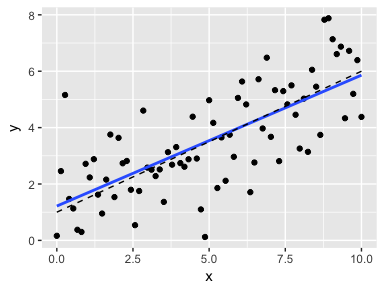
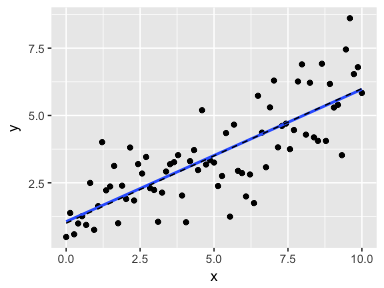
lab 11 typos

diff --git a/teaching/stats306f17/lab11/index.md b/teaching/stats306f17/lab11/index.md
@@ -18,9 +18,9 @@ library(stringr)
 
 ### Grouped matches
 
-As you saw in [Lab 10](http://www.brookluers.com/teaching/stats306f17/lab10/#regular-expression-backreferences){:target="_blank"}, grouping a regular expression with parentheses allows us to reference those groups later in the expression, or when replacing parts of a string with `str_replace`. We can also extract each part of a grouped expression using `str_match` or `tidyr::extract`. See [section 14.4](http://r4ds.had.co.nz/strings.html#grouped-matches) in the textbook.
+As you saw in [Lab 10](http://www.brookluers.com/teaching/stats306f17/lab10/#regular-expression-backreferences){:target="_blank"}, grouping a regular expression with parentheses allows us to reference those groups later in the expression, or when replacing parts of a string with `str_replace`. We can also extract each part of a grouped expression using `str_match` or `tidyr::extract`. See [section 14.4](http://r4ds.had.co.nz/strings.html#grouped-matches){:target="_blank"} in the textbook.
 
-`str_match` produces a matrix with one column for the entire matched substring and one column for each group:
+[`str_match`](http://stringr.tidyverse.org/reference/str_match.html){:target="_blank"} produces a matrix with one column for the entire matched substring and one column for each group:
 
 ``` r
 petnames <- c("dog: Fido", "cat: Clarence", "cat: Milo", "guinea pig: Alan", "ferret: Dennis")
@@ -34,7 +34,7 @@ str_match(petnames, "([a-zA-Z ]+): ([A-Za-z]+)")
     ## [4,] "guinea pig: Alan" "guinea pig" "Alan"    
     ## [5,] "ferret: Dennis"   "ferret"     "Dennis"
 
-`extract` from the `tidyr` package is useful when we have text data inside a data frame.
+[`extract`](http://tidyr.tidyverse.org/reference/extract.html){:target="_blank"} from the `tidyr` package is useful when we have text data inside a data frame.
 
 ``` r
 (petdf <- tibble(petnames))
@@ -126,9 +126,9 @@ We can use this function to illustrate [Simpson's Paradox](https://en.wikipedia.
 
 ``` r
 x <- seq(0, 20, length.out=120)
-d1 <- regSim(x[1:40], 0, -0.3)
-d2 <- regSim(x[41:80], 3, -0.3)
-d3 <- regSim(x[81:120], 8, -0.3)
+d1 <- regSim(x[1:40], 0, -0.3, 1)
+d2 <- regSim(x[41:80], 3, -0.3, 2)
+d3 <- regSim(x[81:120], 8, -0.3, 3)
 ggplot(bind_rows(d1, d2, d3, .id='group')) +
   geom_point(aes(x=x,y=y,color=group),shape=1) + 
   stat_smooth(aes(x=x,y=y), method='lm',se=F, color = 'black',
@@ -140,8 +140,7 @@ ggplot(bind_rows(d1, d2, d3, .id='group')) +
 
 ### Exercise
 
-The car-cyclist crash data set contains the approximate time when each crash occurred.
-
+The car-cyclist crash data set contains the approximate time when each crash occurred. 
 ``` r
 cr <- read_csv('cyclist_crashes.txt')
 head(cr$Time.of.Day)
@@ -150,9 +149,11 @@ head(cr$Time.of.Day)
     ## [1] "7:00 PM - 8:00 PM"   "10:00 AM - 11:00 AM" "3:00 PM - 4:00 PM"  
     ## [4] "8:00 PM - 9:00 PM"   "4:00 PM - 5:00 PM"   "4:00 AM - 5:00 AM"
 
-In this exercise we will extract the numeric hour from `Time.of.Day` and convert it to 24-hour time.
+In [Lab 4](http://www.brookluers.com/teaching/stats306f17/lab4/#exercise-2){:target="_blank"} we wrote a lengthy command to convert the variable `Time.of.Day` to a numeric hour in 24-hour format.
 
-1.  Write a function called `time24` that takes two arguments: `h12`, a vector of integers, and `pm` a logical vector. The function should convert the integers in `h12` from 12-hour time to 24-hour time. The vector `pm` indicates whether the corresponding element of `h12` is an hour that occurrs before 12 noon.  
+In this exercise we will use regular expressions to extract the numeric hour from `Time.of.Day` and convert it to 24-hour time.
+
+1.  Write a function called `time24` that takes two arguments: `h12`, a vector of integers, and `pm` a logical vector. The function should convert the integers in `h12` from 12-hour time to 24-hour time. The vector `pm` indicates whether the corresponding element of `h12` is an hour that occurrs after 12 noon.  
 
     Here is an example of the expected output:  
 
@@ -172,6 +173,28 @@ In this exercise we will extract the numeric hour from `Time.of.Day` and convert
     ```
 
         ## Error in time24(c(11, 10), c(FALSE, TRUE, TRUE, TRUE)): unequal length vectors
+
+    Hints:
+
+    -   The function `ifelse` may be useful:
+
+        ```r
+        x <- c(TRUE, TRUE, FALSE)
+        y <- c(1, 2, 3)
+        ifelse(x, y, y * 1000)
+        ```
+
+            ## [1]    1    2 3000
+
+
+    -   You can use the `%%` operator to handle 12 p.m. and 12 a.m.:
+
+        ```r
+        1:12 %% 12
+        ```  
+
+            ##  [1]  1  2  3  4  5  6  7  8  9 10 11  0
+
 
 1.  What are the unique values of `cr$Time.of.Day`? Replace ocurrences of `midnight` with `AM` and replace `noon` with `PM`.
 

diff --git a/teaching/stats306f17/index.md b/teaching/stats306f17/index.md
@@ -31,4 +31,4 @@ Office hours (in the <a href="https://lsa.umich.edu/slc/contact-us.html" target=
 | November 7    | [Lab 8](lab8)   |
 | November 14   | [Lab 9](lab9)   |
 | November 21   | [Lab 10](lab10)   |
-| November 21   | [Lab 11](lab11)   |
+| November 28   | [Lab 11](lab11)   |
